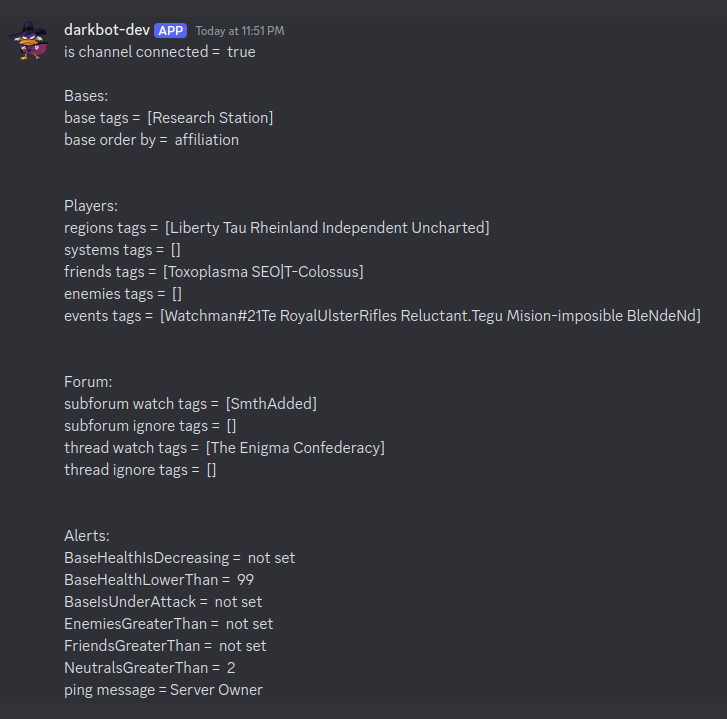
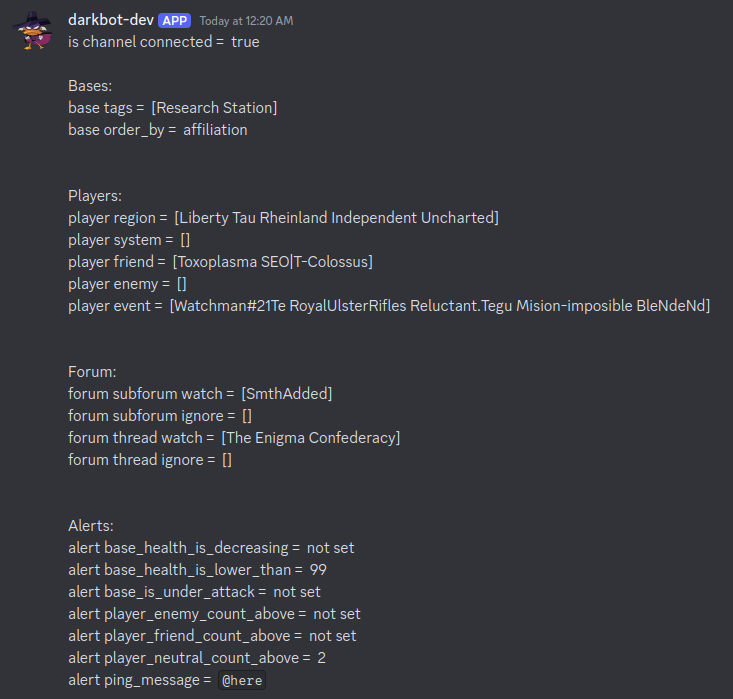
fix: to more telling

diff --git a/app/consoler/commands/root.go b/app/consoler/commands/root.go
@@ -353,46 +353,46 @@ func (r *rootCommands) CreateConfig() {
 			// bases
 			sb.WriteString("\nBases:\n")
 			sb.WriteString(fmt.Sprintln("base tags = ", r.Bases.Tags.TagsList2(channel_id)))
-			sb.WriteString(fmt.Sprintln("base order by = ", GetStatus(r.Configurators.Bases.OrderBy, channel_id)))
+			sb.WriteString(fmt.Sprintln("base order_by = ", GetStatus(r.Configurators.Bases.OrderBy, channel_id)))
 			sb.WriteString("\n")
 
 			// players
 			sb.WriteString("\nPlayers:\n")
-			sb.WriteString(fmt.Sprintln("regions tags = ", r.Players.Regions.TagsList2(channel_id)))
-			sb.WriteString(fmt.Sprintln("systems tags = ", r.Players.Systems.TagsList2(channel_id)))
-			sb.WriteString(fmt.Sprintln("friends tags = ", r.Players.Friends.TagsList2(channel_id)))
-			sb.WriteString(fmt.Sprintln("enemies tags = ", r.Players.Enemies.TagsList2(channel_id)))
-			sb.WriteString(fmt.Sprintln("events tags = ", r.Players.Events.TagsList2(channel_id)))
+			sb.WriteString(fmt.Sprintln("player region = ", r.Players.Regions.TagsList2(channel_id)))
+			sb.WriteString(fmt.Sprintln("player system = ", r.Players.Systems.TagsList2(channel_id)))
+			sb.WriteString(fmt.Sprintln("player friend = ", r.Players.Friends.TagsList2(channel_id)))
+			sb.WriteString(fmt.Sprintln("player enemy = ", r.Players.Enemies.TagsList2(channel_id)))
+			sb.WriteString(fmt.Sprintln("player event = ", r.Players.Events.TagsList2(channel_id)))
 			sb.WriteString("\n")
 
 			// forum
 			sb.WriteString("\nForum:\n")
-			sb.WriteString(fmt.Sprintln("subforum watch tags = ", r.Forum.Subforum.Watch.TagsList2(channel_id)))
-			sb.WriteString(fmt.Sprintln("subforum ignore tags = ", r.Forum.Subforum.Ignore.TagsList2(channel_id)))
-			sb.WriteString(fmt.Sprintln("thread watch tags = ", r.Forum.Thread.Watch.TagsList2(channel_id)))
-			sb.WriteString(fmt.Sprintln("thread ignore tags = ", r.Forum.Thread.Ignore.TagsList2(channel_id)))
+			sb.WriteString(fmt.Sprintln("forum subforum watch = ", r.Forum.Subforum.Watch.TagsList2(channel_id)))
+			sb.WriteString(fmt.Sprintln("forum subforum ignore = ", r.Forum.Subforum.Ignore.TagsList2(channel_id)))
+			sb.WriteString(fmt.Sprintln("forum thread watch = ", r.Forum.Thread.Watch.TagsList2(channel_id)))
+			sb.WriteString(fmt.Sprintln("forum thread ignore = ", r.Forum.Thread.Ignore.TagsList2(channel_id)))
 			sb.WriteString("\n")
 
 			// alerts
 			sb.WriteString("\nAlerts:\n")
 
-			sb.WriteString(fmt.Sprintln("BaseHealthIsDecreasing = ", GetStatus(r.Alerts.BaseHealthIsDecreasing, channel_id)))
-			sb.WriteString(fmt.Sprintln("BaseHealthLowerThan = ", GetStatus(r.Alerts.BaseHealthLowerThan, channel_id)))
-			sb.WriteString(fmt.Sprintln("BaseIsUnderAttack = ", GetStatus(r.Alerts.BaseIsUnderAttack, channel_id)))
-			sb.WriteString(fmt.Sprintln("EnemiesGreaterThan = ", GetStatus(r.Alerts.EnemiesGreaterThan, channel_id)))
-			sb.WriteString(fmt.Sprintln("FriendsGreaterThan = ", GetStatus(r.Alerts.FriendsGreaterThan, channel_id)))
-			sb.WriteString(fmt.Sprintln("NeutralsGreaterThan = ", GetStatus(r.Alerts.NeutralsGreaterThan, channel_id)))
+			sb.WriteString(fmt.Sprintln("alert base_health_is_decreasing = ", GetStatus(r.Alerts.BaseHealthIsDecreasing, channel_id)))
+			sb.WriteString(fmt.Sprintln("alert base_health_is_lower_than = ", GetStatus(r.Alerts.BaseHealthLowerThan, channel_id)))
+			sb.WriteString(fmt.Sprintln("alert base_is_under_attack = ", GetStatus(r.Alerts.BaseIsUnderAttack, channel_id)))
+			sb.WriteString(fmt.Sprintln("alert player_enemy_count_above = ", GetStatus(r.Alerts.EnemiesGreaterThan, channel_id)))
+			sb.WriteString(fmt.Sprintln("alert player_friend_count_above = ", GetStatus(r.Alerts.FriendsGreaterThan, channel_id)))
+			sb.WriteString(fmt.Sprintln("alert player_neutral_count_above = ", GetStatus(r.Alerts.NeutralsGreaterThan, channel_id)))
 
 			value, err := r.Alerts.PingMessage.Status(channel_id)
 			if err != nil {
 				switch err.(type) {
 				case configurator.ErrorZeroAffectedRows:
-					sb.WriteString(fmt.Sprintln("ping message = Server Owner"))
+					sb.WriteString(fmt.Sprintln("alert ping_message = Server Owner"))
 				default:
-					sb.WriteString(fmt.Sprintln("ping message = ", err.Error()))
+					sb.WriteString(fmt.Sprintln("alert ping_message = ", err.Error()))
 				}
 			} else {
-				sb.WriteString(fmt.Sprintln("ping message = ", fmt.Sprintf("`%s`", value)))
+				sb.WriteString(fmt.Sprintln("alert ping_message = ", fmt.Sprintf("`%s`", value)))
 			}
 			sb.WriteString("\n")
 
